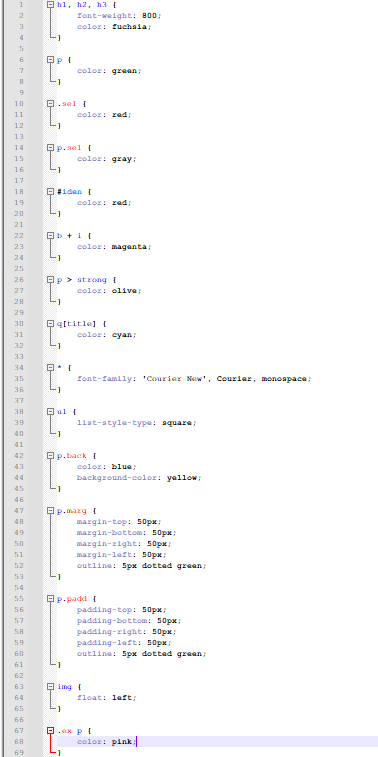
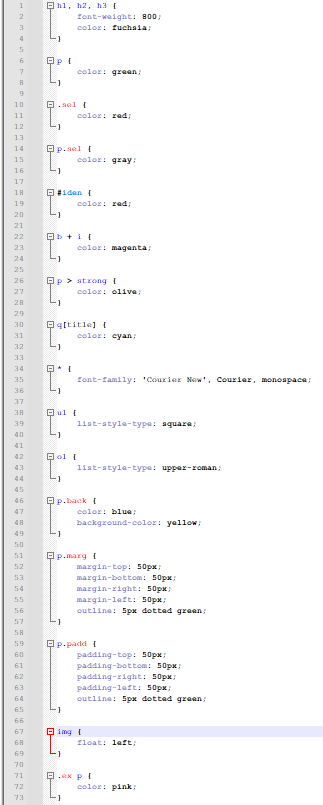
Changed list styling

diff --git a/lab2/lab/rest/style.css b/lab2/lab/rest/style.css
@@ -39,6 +39,10 @@ ul {
     list-style-type: square;
 }
 
+ol {
+    list-style-type: upper-roman;
+}
+
 p.back {
     color: blue;
     background-color: yellow;
